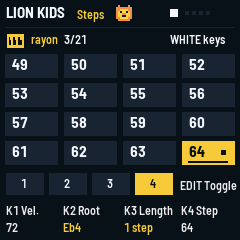
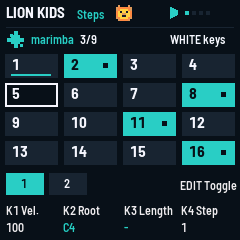
Show the current device controls in launch screenshots

diff --git a/app/web/site/index.html b/app/web/site/index.html
@@ -29,8 +29,9 @@
       <div class="gallery">
         <figure><img src="./img/lion-kids-performance.png" width="240" height="240" loading="lazy" alt="Eight tracks on separate timing rows in Performance"><figcaption>Performance · See all eight tracks</figcaption></figure>
         <figure><img src="./img/lion-kids-steps.png" width="240" height="240" loading="lazy" alt="Step editor with a grid of sixteen numbered steps"><figcaption>Steps · Edit notes and drum hits</figcaption></figure>
-        <figure><img src="./img/kids-shaping-lfo.png" width="240" height="240" loading="lazy" alt="LFO screen with a waveform and four modulation controls"><figcaption>LFO · Add movement in time</figcaption></figure>
+        <figure><img src="./img/lion-kids-lfo.png" width="240" height="240" loading="lazy" alt="LFO screen with a waveform and four modulation controls"><figcaption>LFO · Add movement in time</figcaption></figure>
       </div>
+      <p class="workflow-detail">Each track has its own loop length, so a short drum pattern can repeat under a longer melody. Switch between playing the keys live and editing individual steps. Shape the sound with reverb, delay, the envelope, tempo-synced LFO and Quick Effects. The scale, chord and arpeggiator controls help a few keys fill out a part.</p>
       <a class="text-link" href="./manual/">Read the full manual</a>
     </section>
     <section class="export-strip" aria-labelledby="export">

diff --git a/app/web/site/site.css b/app/web/site/site.css
@@ -45,6 +45,7 @@ figcaption { margin-top: .55rem; color: var(--muted); font-size: .92rem; }
 .gallery { display: grid; grid-template-columns: repeat(3, minmax(0, 1fr)); gap: .85rem; margin-block: 1.25rem; }
 .gallery figure { padding: .75rem; background: var(--panel); border-radius: .55rem; }
 .gallery img { width: 100%; max-width: 240px; margin-inline: auto; }
+.workflow-detail { margin-block: 1rem; }
 .text-link { font-weight: 750; }
 .export-strip { display: flex; flex-wrap: wrap; align-items: center; justify-content: space-between; gap: 1rem; padding: 1.4rem; background: var(--panel); border-left: 3px solid var(--mint); margin: 1rem 0 2rem; }
 .export-strip div { max-width: 52ch; }

diff --git a/tools/build_lion_site.py b/tools/build_lion_site.py
@@ -14,7 +14,7 @@ from build_lion_device import PREVIEW_VERSION
 ROOT = Path(__file__).resolve().parents[1]
 TEMPLATES = ROOT / "app" / "web" / "site"
 SHOTS = (
-    "lion-kids-home.png", "lion-kids-performance.png", "lion-kids-steps.png", "kids-shaping-lfo.png",
+    "lion-kids-home.png", "lion-kids-performance.png", "lion-kids-steps.png", "lion-kids-lfo.png",
 )
 
 
